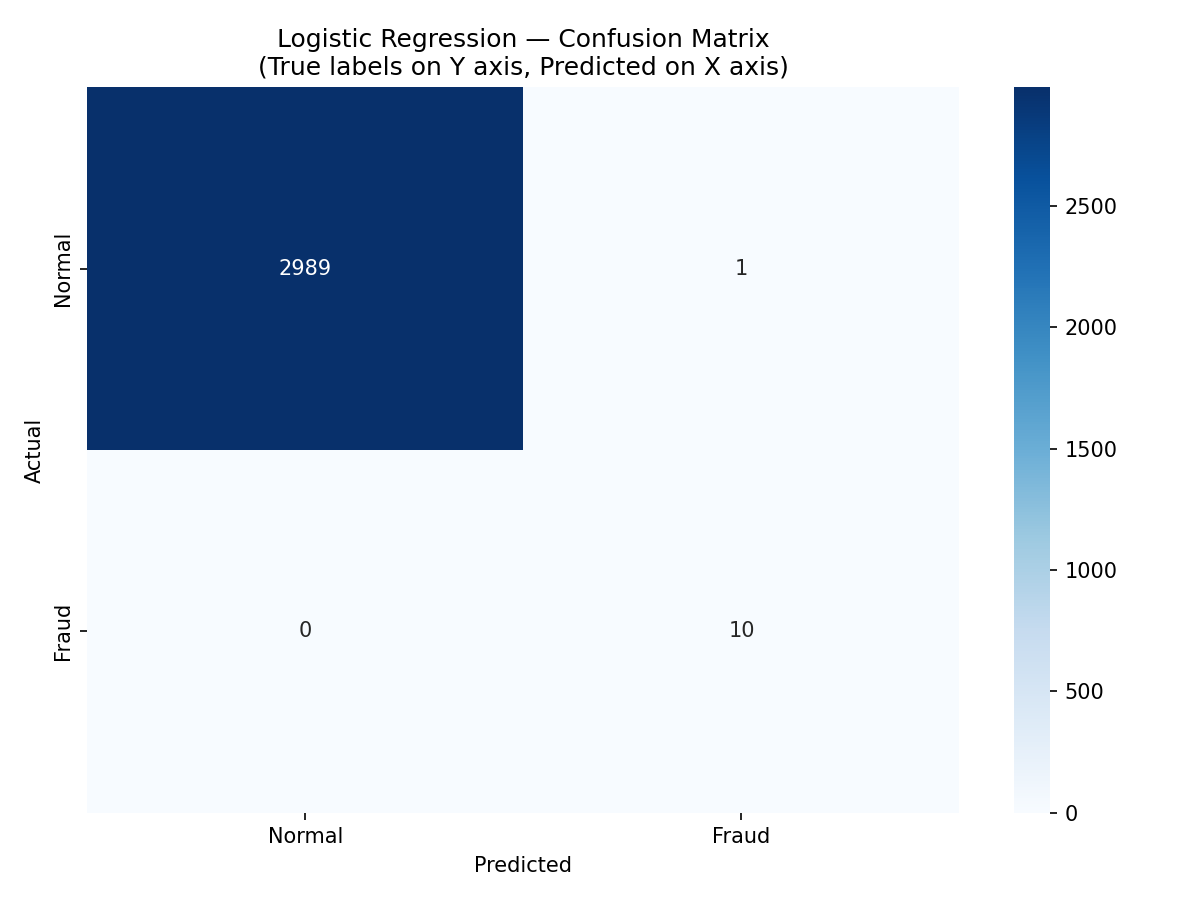
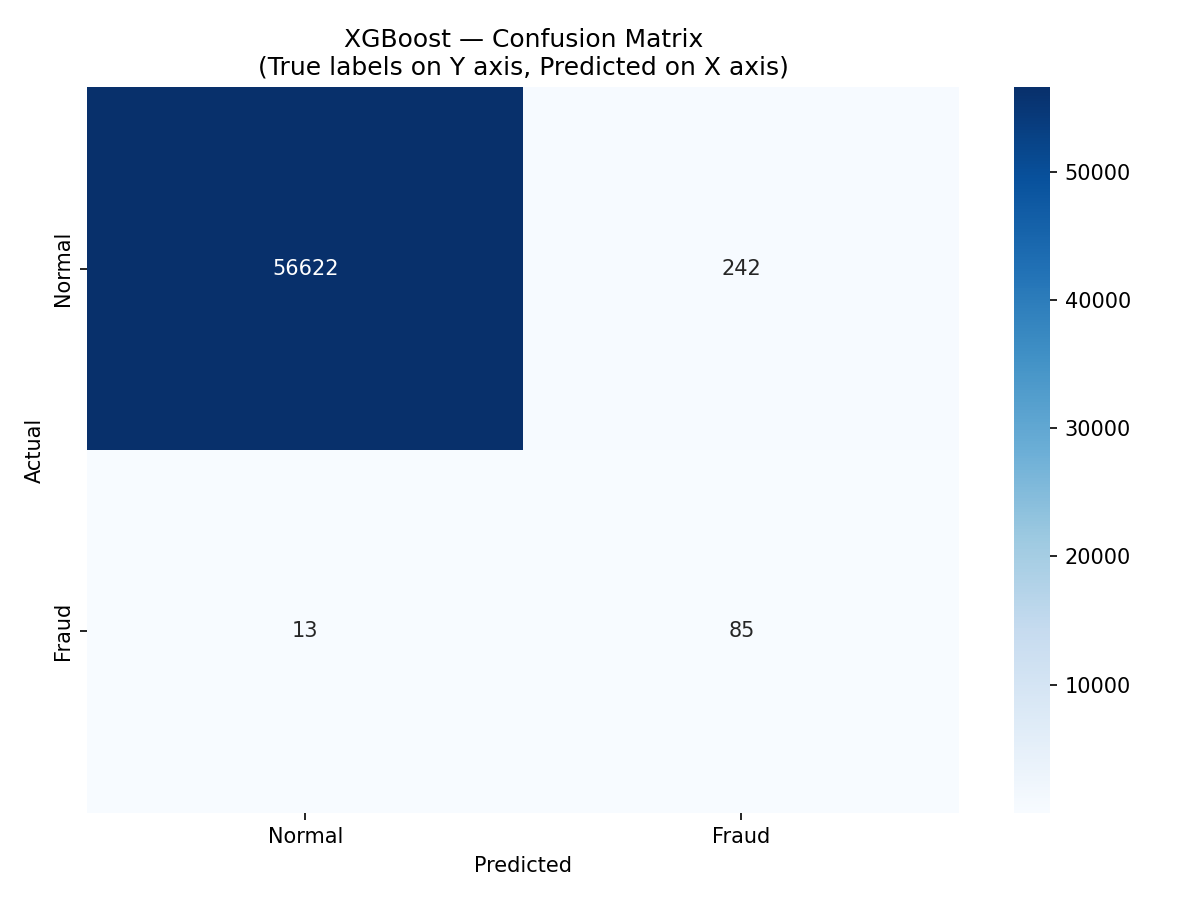
new

diff --git a/fraud_detection.py b/fraud_detection.py
@@ -5,8 +5,18 @@ PROJECT 1: Financial Transaction Fraud Detection
 
 WHAT THIS PROJECT DOES:
   Detects fraudulent credit card transactions using XGBoost.
-  The main challenge is that fraud is extremely rare (0.17% of
+  The main challenge is that fraud is extremely rare (~0.17% of
   all transactions), so we use SMOTE to fix the class imbalance.
+
+  Pipeline:
+    1. Load data (real Kaggle CSV or synthetic fallback)
+    2. Engineer features (hour, log_amount, zscore, etc.)
+    3. Balance classes with SMOTE
+    4. Train XGBoost with GridSearchCV hyperparameter tuning
+    5. Evaluate — AUC-ROC, Precision, Recall
+    6. Explain predictions with SHAP
+    7. Track experiment with MLflow
+    8. Monitor for data drift
 
 HOW TO RUN:
   pip install -r requirements.txt
@@ -16,10 +26,10 @@ OUTPUT FILES:
   - shap_summary.png     : Which features drive fraud predictions
   - shap_waterfall.png   : Why one specific transaction was flagged
   - confusion_matrix.png : How many frauds were caught vs missed
-  - mlruns/              : MLflow experiment logs (all model runs)
+  - mlruns/              : MLflow experiment logs
 
 DATASET:
-  Uses synthetic data by default (generated here).
+  Uses synthetic data by default (generated automatically).
   For real results: download creditcard.csv from
   https://www.kaggle.com/datasets/mlg-ulb/creditcardfraud
   and place it in the data/ folder.
@@ -37,8 +47,6 @@ import seaborn as sns
 
 from sklearn.model_selection import train_test_split, GridSearchCV
 from sklearn.preprocessing import StandardScaler
-from sklearn.linear_model import LogisticRegression
-from sklearn.ensemble import RandomForestClassifier
 from sklearn.metrics import (
     classification_report, roc_auc_score,
     confusion_matrix, precision_score, recall_score
@@ -210,93 +218,79 @@ def preprocess(df):
 # STEP 4: MODEL TRAINING + HYPERPARAMETER TUNING
 # =================================================================
 
-def train_models(X_train, y_train):
+def train_model(X_train, y_train):
     """
-    Trains three models and tunes XGBoost with GridSearchCV.
+    Trains XGBoost with GridSearchCV hyperparameter tuning.
 
-    Models compared:
-      1. Logistic Regression  — simple linear baseline
-      2. Random Forest        — ensemble of decision trees
-      3. XGBoost              — gradient boosted trees (usually best)
+    XGBoost is gradient boosted trees:
+      - Starts with a simple prediction
+      - Each new tree corrects the errors of the previous one
+      - Final prediction = sum of all trees
 
-    GridSearchCV tries all combinations of XGBoost parameters and
-    picks the best one using 3-fold cross-validation.
+    GridSearchCV tests all parameter combinations with 3-fold
+    cross-validation and picks the best one automatically.
+
+    Key parameters tuned:
+      max_depth        : how deep each tree grows (3-5 is typical)
+      learning_rate    : how much each tree contributes (lower = more trees needed but more accurate)
+      n_estimators     : how many trees to build
+      scale_pos_weight : compensates for class imbalance (fraud is rare)
     """
-    models = {}
-
-    # --- Model 1: Logistic Regression (baseline) ---
-    print("Training Logistic Regression (baseline)...")
-    lr = LogisticRegression(max_iter=1000, random_state=42, class_weight='balanced')
-    lr.fit(X_train, y_train)
-    models['Logistic Regression'] = lr
-
-    # --- Model 2: Random Forest ---
-    print("Training Random Forest...")
-    rf = RandomForestClassifier(n_estimators=100, random_state=42,
-                                 class_weight='balanced', n_jobs=-1)
-    rf.fit(X_train, y_train)
-    models['Random Forest'] = rf
-
-    # --- Model 3: XGBoost with hyperparameter tuning ---
     print("Training XGBoost with GridSearchCV (this takes ~1-2 min)...")
     param_grid = {
         'max_depth': [3, 5],
         'learning_rate': [0.05, 0.1],
         'n_estimators': [100, 200],
-        'scale_pos_weight': [50, 100]   # handles class imbalance
+        'scale_pos_weight': [50, 100]   # higher = more weight on fraud class
     }
     xgb = XGBClassifier(eval_metric='logloss', random_state=42, n_jobs=-1)
     grid_search = GridSearchCV(xgb, param_grid, cv=3, scoring='roc_auc',
                                n_jobs=-1, verbose=1)
     grid_search.fit(X_train, y_train)
-    best_xgb = grid_search.best_estimator_
-    models['XGBoost'] = best_xgb
-    print(f"Best XGBoost params: {grid_search.best_params_}\n")
+    best_model = grid_search.best_estimator_
+    print(f"Best params: {grid_search.best_params_}")
+    print(f"Best CV AUC-ROC: {grid_search.best_score_:.4f}\n")
 
-    return models
+    return best_model
 
 
 # =================================================================
 # STEP 5: EVALUATION
 # =================================================================
 
-def evaluate_models(models, X_test, y_test):
+def evaluate_model(model, X_test, y_test):
     """
-    Evaluates all models and prints performance metrics.
+    Evaluates XGBoost and prints performance metrics.
 
     Key metrics for fraud detection:
-      - AUC-ROC    : overall ranking ability (higher is better)
+      - AUC-ROC    : overall ranking ability across all thresholds (higher = better)
       - Precision  : of transactions flagged as fraud, how many were actually fraud?
       - Recall     : of all actual frauds, how many did we catch?
 
-    In fraud detection, RECALL is often more important than precision
-    (missing a fraud is worse than a false alarm).
+    In fraud detection, RECALL is more important than Precision.
+    Missing a fraud (false negative) costs more than a false alarm.
     """
-    results = {}
+    y_pred = model.predict(X_test)
+    y_prob = model.predict_proba(X_test)[:, 1]
+
+    auc  = roc_auc_score(y_test, y_prob)
+    prec = precision_score(y_test, y_pred, zero_division=0)
+    rec  = recall_score(y_test, y_pred, zero_division=0)
+
     print("=" * 60)
-    print("MODEL EVALUATION RESULTS")
+    print("XGBOOST EVALUATION RESULTS")
     print("=" * 60)
+    print(f"  AUC-ROC   : {auc:.4f}")
+    print(f"  Precision : {prec:.4f}  (of flagged fraud, how many were real)")
+    print(f"  Recall    : {rec:.4f}  (of real frauds, how many did we catch)")
+    print()
+    print(classification_report(y_test, y_pred,
+                                 target_names=['Normal', 'Fraud'], zero_division=0))
 
-    for name, model in models.items():
-        y_pred = model.predict(X_test)
-        y_prob = model.predict_proba(X_test)[:, 1]
-
-        auc = roc_auc_score(y_test, y_prob)
-        prec = precision_score(y_test, y_pred, zero_division=0)
-        rec = recall_score(y_test, y_pred, zero_division=0)
-
-        results[name] = {'auc': auc, 'precision': prec, 'recall': rec, 'model': model}
-        print(f"\n{name}:")
-        print(f"  AUC-ROC   : {auc:.4f}")
-        print(f"  Precision : {prec:.4f}  (of flagged fraud, how many were real)")
-        print(f"  Recall    : {rec:.4f}  (of real frauds, how many did we catch)")
-        print(classification_report(y_test, y_pred,
-                                     target_names=['Normal', 'Fraud'], zero_division=0))
-
-    return results
+    return {'auc': auc, 'precision': prec, 'recall': rec}
 
 
-def plot_confusion_matrix(model, X_test, y_test, model_name="XGBoost"):
+def plot_confusion_matrix(model, X_test, y_test):
     """Saves a confusion matrix plot as confusion_matrix.png"""
     y_pred = model.predict(X_test)
     cm = confusion_matrix(y_test, y_pred)
@@ -305,8 +299,7 @@ def plot_confusion_matrix(model, X_test, y_test, model_name="XGBoost"):
     sns.heatmap(cm, annot=True, fmt='d', cmap='Blues',
                 xticklabels=['Normal', 'Fraud'],
                 yticklabels=['Normal', 'Fraud'])
-    plt.title(f'{model_name} — Confusion Matrix\n'
-              f'(True labels on Y axis, Predicted on X axis)')
+    plt.title('XGBoost — Confusion Matrix\n(True labels on Y axis, Predicted on X axis)')
     plt.ylabel('Actual')
     plt.xlabel('Predicted')
     plt.tight_layout()
@@ -373,37 +366,29 @@ def explain_with_shap(model, X_test, feature_names, n_samples=200):
 # STEP 7: MLFLOW EXPERIMENT TRACKING
 # =================================================================
 
-def log_to_mlflow(results, best_model_name):
+def log_to_mlflow(model, metrics):
     """
-    Logs all model runs to MLflow.
+    Logs the XGBoost run to MLflow.
 
     After running this script, type:
       mlflow ui
-    Then open http://localhost:5000 to see all experiments
-    with their parameters, metrics, and model files.
+    Then open http://localhost:5000 to see the experiment
+    with metrics, parameters, and the saved model file.
 
     This is how data scientists track experiments in production —
-    instead of writing results in a notebook or spreadsheet.
+    not spreadsheets or print statements, but a versioned log
+    you can compare across retraining runs.
     """
-    # Use local file-based tracking (no SQLite, no server needed)
-    import os
     mlflow.set_tracking_uri(os.path.abspath("mlruns"))
     mlflow.set_experiment("fraud_detection")
-    print("\nLogging experiments to MLflow...")
+    print("\nLogging to MLflow...")
 
-    for name, data in results.items():
-        with mlflow.start_run(run_name=name):
-            # Log performance metrics
-            mlflow.log_metric("auc_roc", data['auc'])
-            mlflow.log_metric("precision", data['precision'])
-            mlflow.log_metric("recall", data['recall'])
-
-            # Tag which model this is
-            mlflow.set_tag("model_type", name)
-            mlflow.set_tag("best_model", str(name == best_model_name))
-
-            # Log the model artifact
-            mlflow.sklearn.log_model(data['model'], "model")
+    with mlflow.start_run(run_name="XGBoost"):
+        mlflow.log_metric("auc_roc",   metrics['auc'])
+        mlflow.log_metric("precision", metrics['precision'])
+        mlflow.log_metric("recall",    metrics['recall'])
+        mlflow.set_tag("model_type", "XGBoost")
+        mlflow.sklearn.log_model(model, "model")
 
     print("MLflow logging complete. Run 'mlflow ui' to view dashboard.\n")
 
@@ -453,7 +438,7 @@ def check_data_drift(X_train, X_new, feature_names, threshold=0.3):
 
 def main():
     print("\n" + "=" * 60)
-    print("FRAUD DETECTION — FULL TRAINING PIPELINE")
+    print("FRAUD DETECTION — XGBOOST PIPELINE")
     print("=" * 60 + "\n")
 
     # Step 1: Load data
@@ -462,35 +447,28 @@ def main():
     # Step 2: Feature engineering
     df = engineer_features(df)
 
-    # Step 3: Preprocess (SMOTE + scaling)
+    # Step 3: Preprocess — split, scale, apply SMOTE
     X_train, y_train, X_test, y_test, scaler, feature_cols = preprocess(df)
 
-    # Step 4: Train models
-    models = train_models(X_train, y_train)
+    # Step 4: Train XGBoost with GridSearchCV
+    model = train_model(X_train, y_train)
 
-    # Step 5: Evaluate all models
-    results = evaluate_models(models, X_test, y_test)
+    # Step 5: Evaluate
+    metrics = evaluate_model(model, X_test, y_test)
 
-    # Step 6: Pick best model (highest AUC-ROC)
-    best_name = max(results, key=lambda k: results[k]['auc'])
-    best_model = results[best_name]['model']
-    print(f"\nBest model: {best_name} (AUC-ROC: {results[best_name]['auc']:.4f})")
+    # Step 6: Confusion matrix plot
+    plot_confusion_matrix(model, X_test, y_test)
 
-    # Step 7: Confusion matrix plot
-    plot_confusion_matrix(best_model, X_test, y_test, best_name)
-
-    # Step 8: SHAP explanations — always run on XGBoost (tree model required)
-    # TreeExplainer only works with tree-based models, not Logistic Regression
-    xgb_model = results['XGBoost']['model']
+    # Step 7: SHAP explainability
     try:
-        explain_with_shap(xgb_model, X_test, feature_cols)
+        explain_with_shap(model, X_test, feature_cols)
     except Exception as e:
         print(f"SHAP plot skipped: {e}")
 
-    # Step 9: Log to MLflow
-    log_to_mlflow(results, best_name)
+    # Step 8: Log to MLflow
+    log_to_mlflow(model, metrics)
 
-    # Step 10: Drift check on a simulated "new batch" (last 10% of test data)
+    # Step 9: Drift check — simulate new incoming batch (last 10% of test data)
     split = int(len(X_test) * 0.9)
     check_data_drift(X_train, X_test[split:], feature_cols)
 
